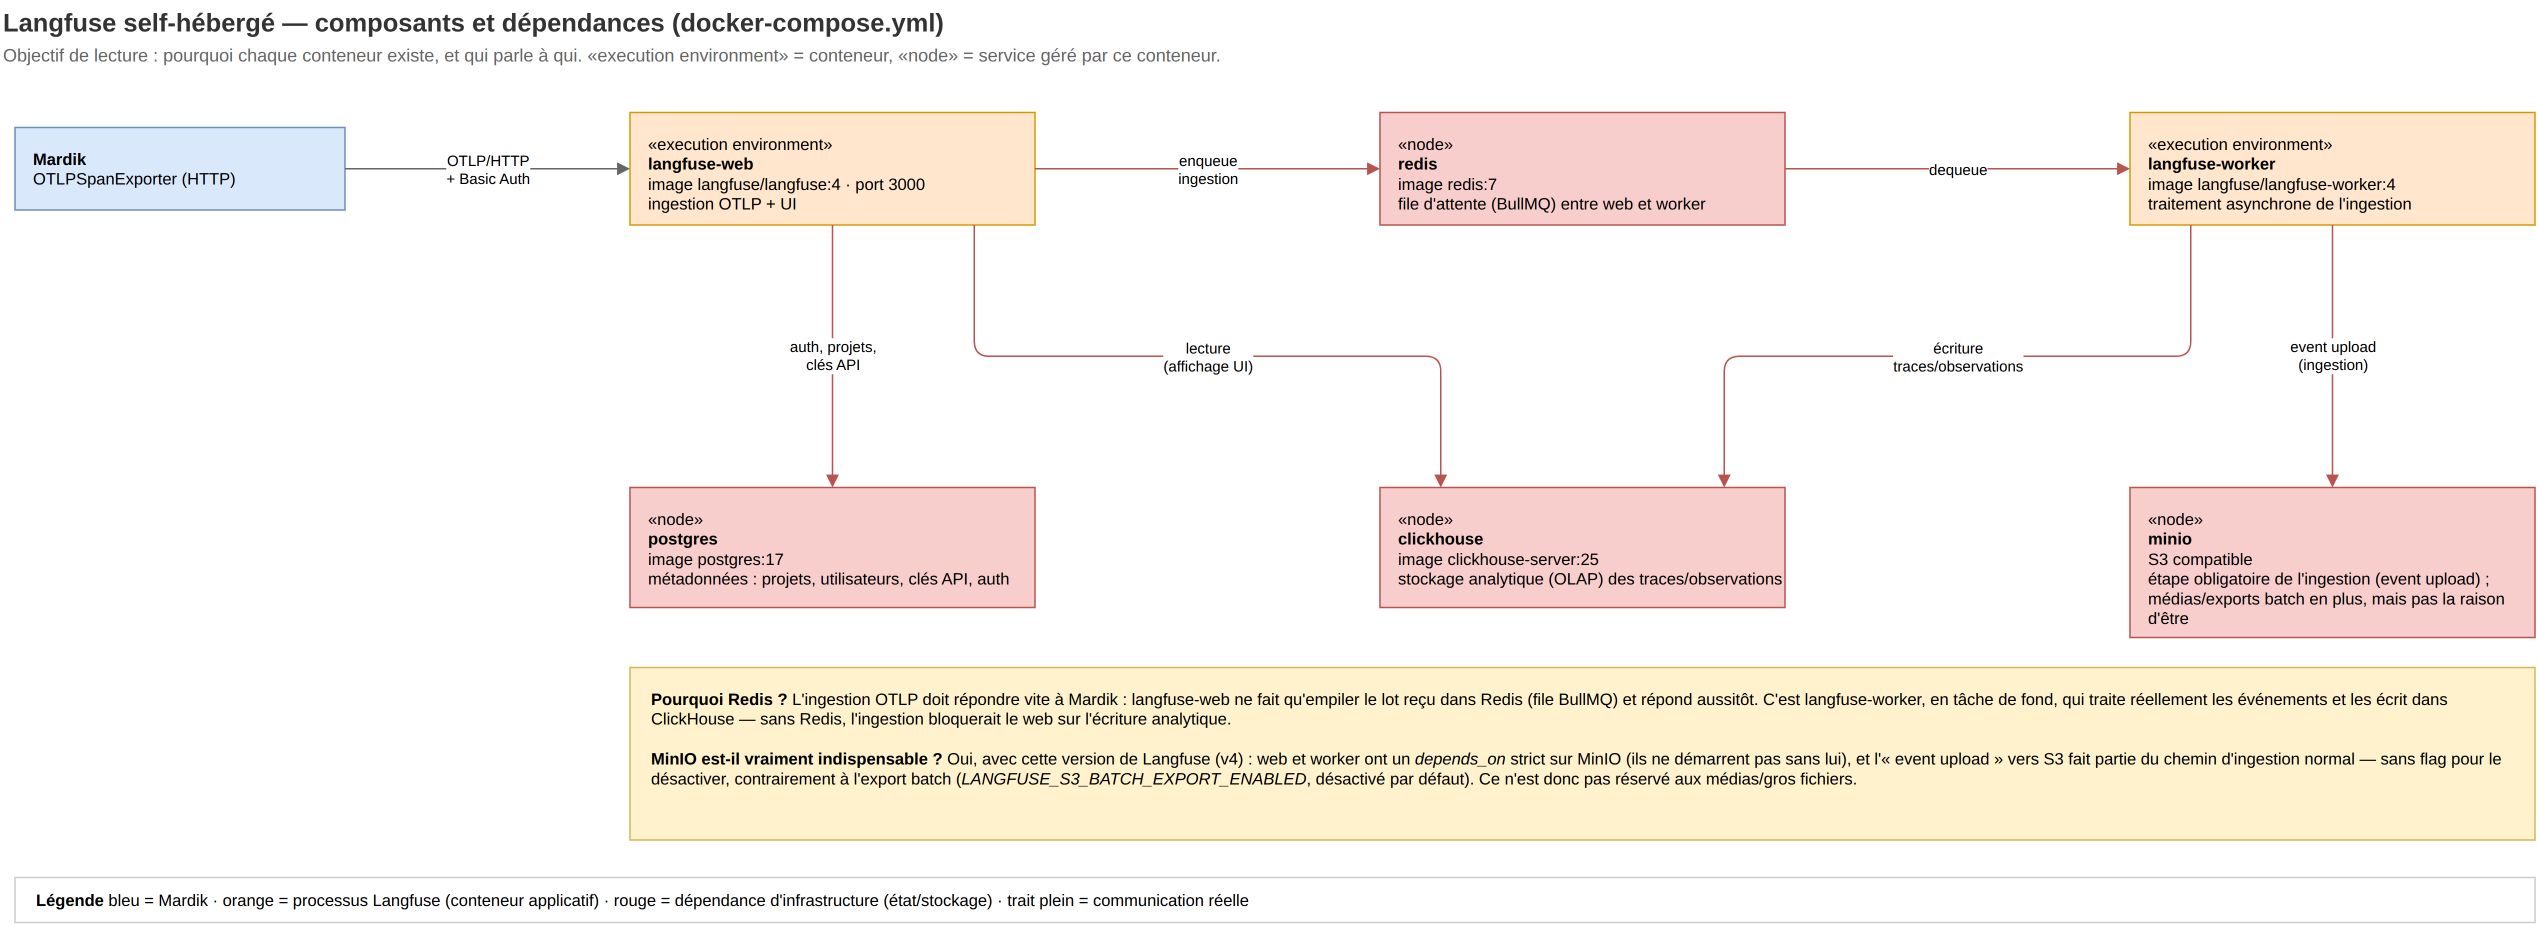
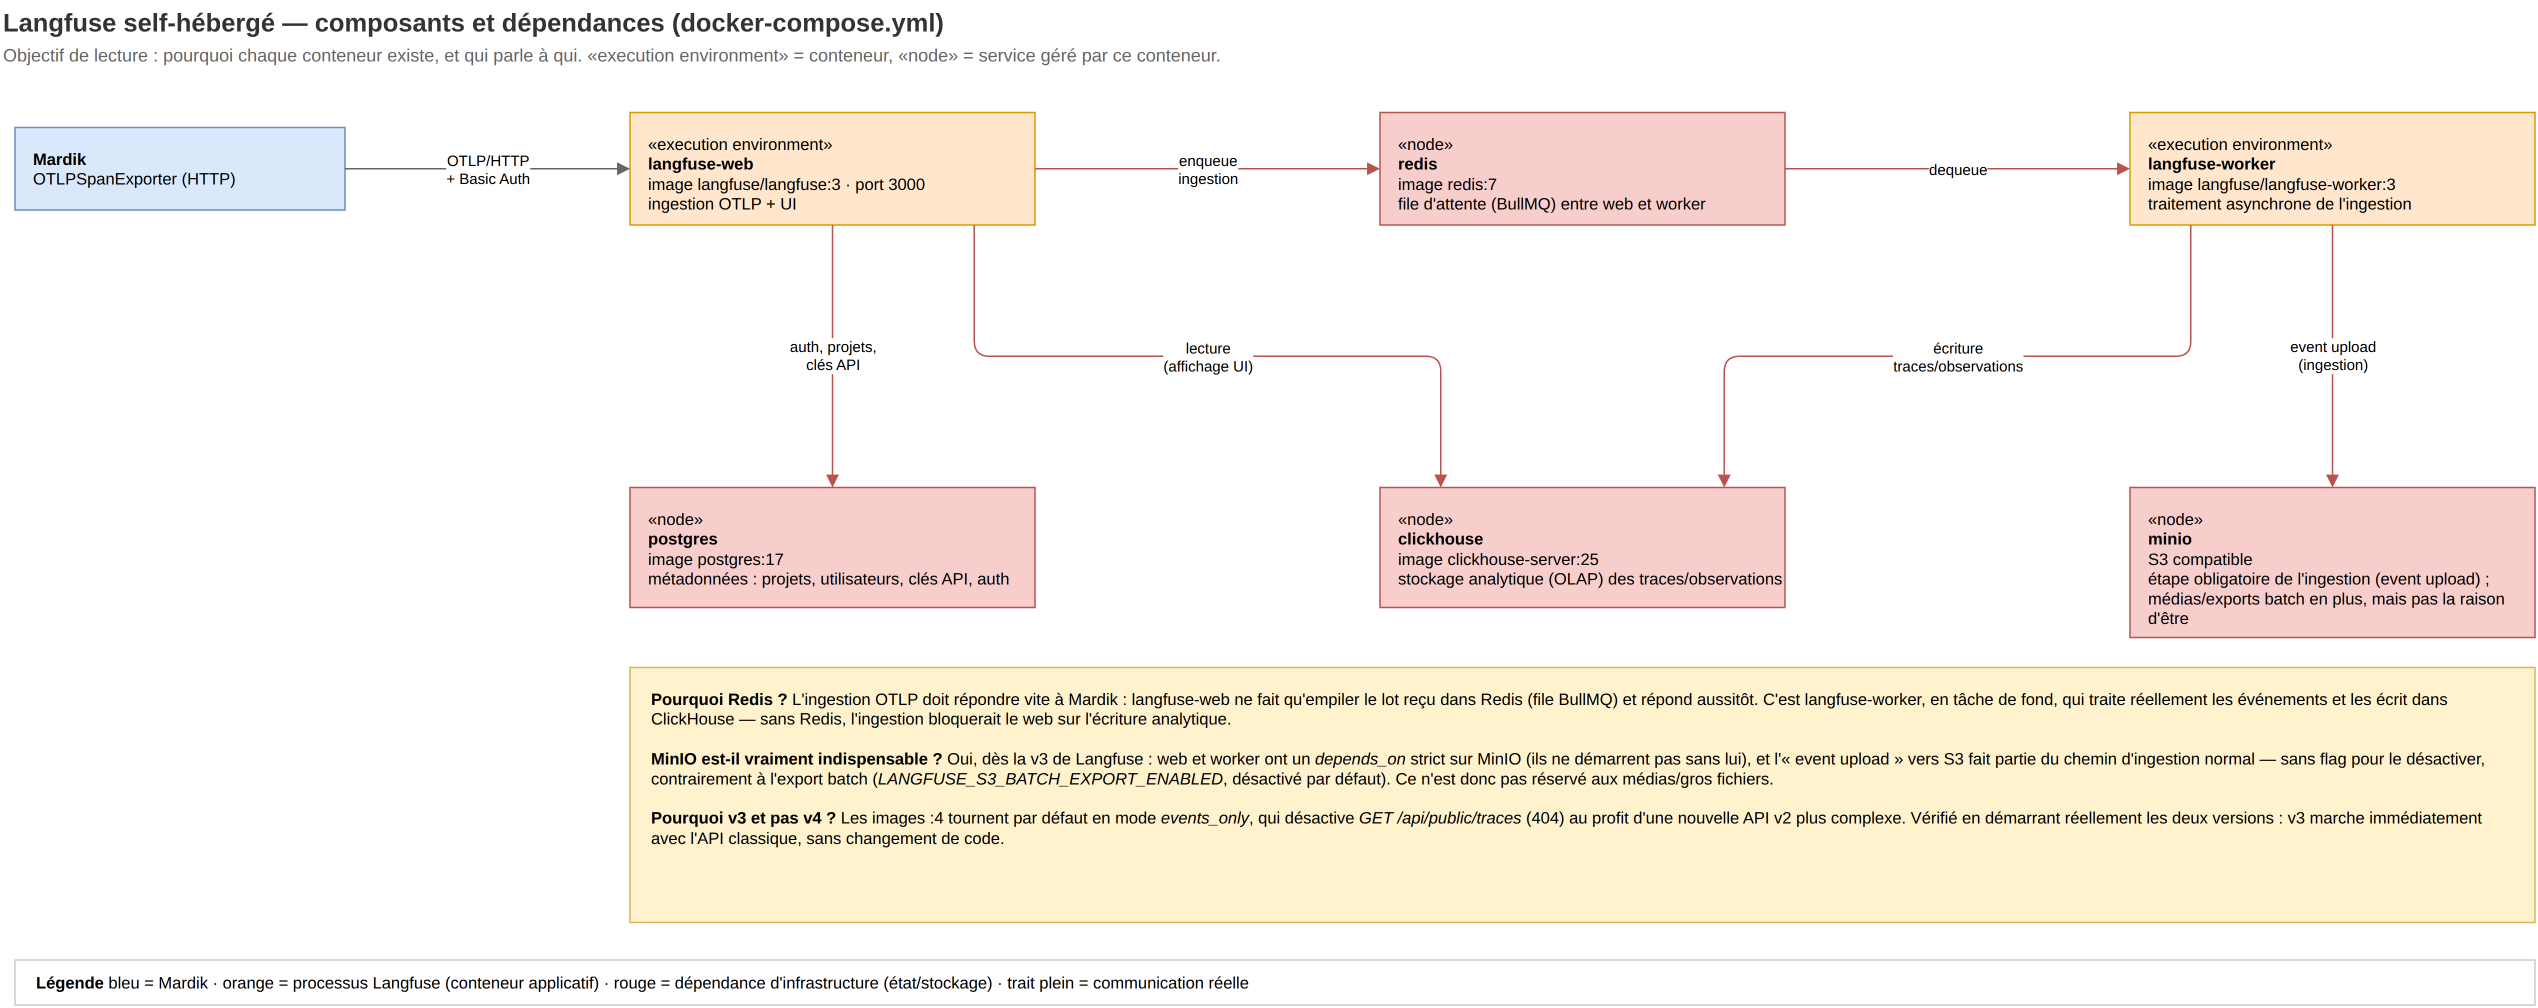
docs: sync Langfuse deployment schema with the actual v3 pin
Le schéma et sa fiche disaient encore :4 (y compris dans la note
expliquant "avec cette version (v4)"), alors que l'implémentation
finale épingle :3 à cause du mode events_only qui casse l'API de
lecture. Corrigé, avec la même explication que dans CHANGELOG.md et
le plan d'implémentation.

diff --git a/docs/images/langfuse_composants_dependances/langfuse_composants_dependances.md b/docs/images/langfuse_composants_dependances/langfuse_composants_dependances.md
@@ -32,10 +32,16 @@ et `minio` (événements bruts).
 - `postgres` porte les métadonnées (projets, utilisateurs, clés API),
   `clickhouse` porte les données analytiques (traces/observations) —
   séparation classique OLTP / OLAP.
+- **Images épinglées en v3, pas v4.** Vérifié en démarrant réellement les
+  deux versions : les images `:4` tournent par défaut en mode
+  `events_only`, qui désactive `GET /api/public/traces` (404) au profit
+  d'une nouvelle API v2 plus complexe — inutile pour une exploration
+  simple. `:3` fonctionne immédiatement avec l'API classique.
 
 ## Voir aussi
 
 - `docs/superpowers/specs/2026-09-14-langfuse-self-hosted-design.md`
+- `docs/superpowers/plans/2026-09-14-langfuse-self-hosted.md` (note de
+  version détaillée)
 - [`traces_jaeger_langfuse_parallele.md`](../traces_jaeger_langfuse_parallele/traces_jaeger_langfuse_parallele.md)
-- Compose de référence Langfuse : `docker-compose.yml` (à venir dans le plan
-  d'implémentation)
+- `docker-compose.yml`, `CHANGELOG.md`
